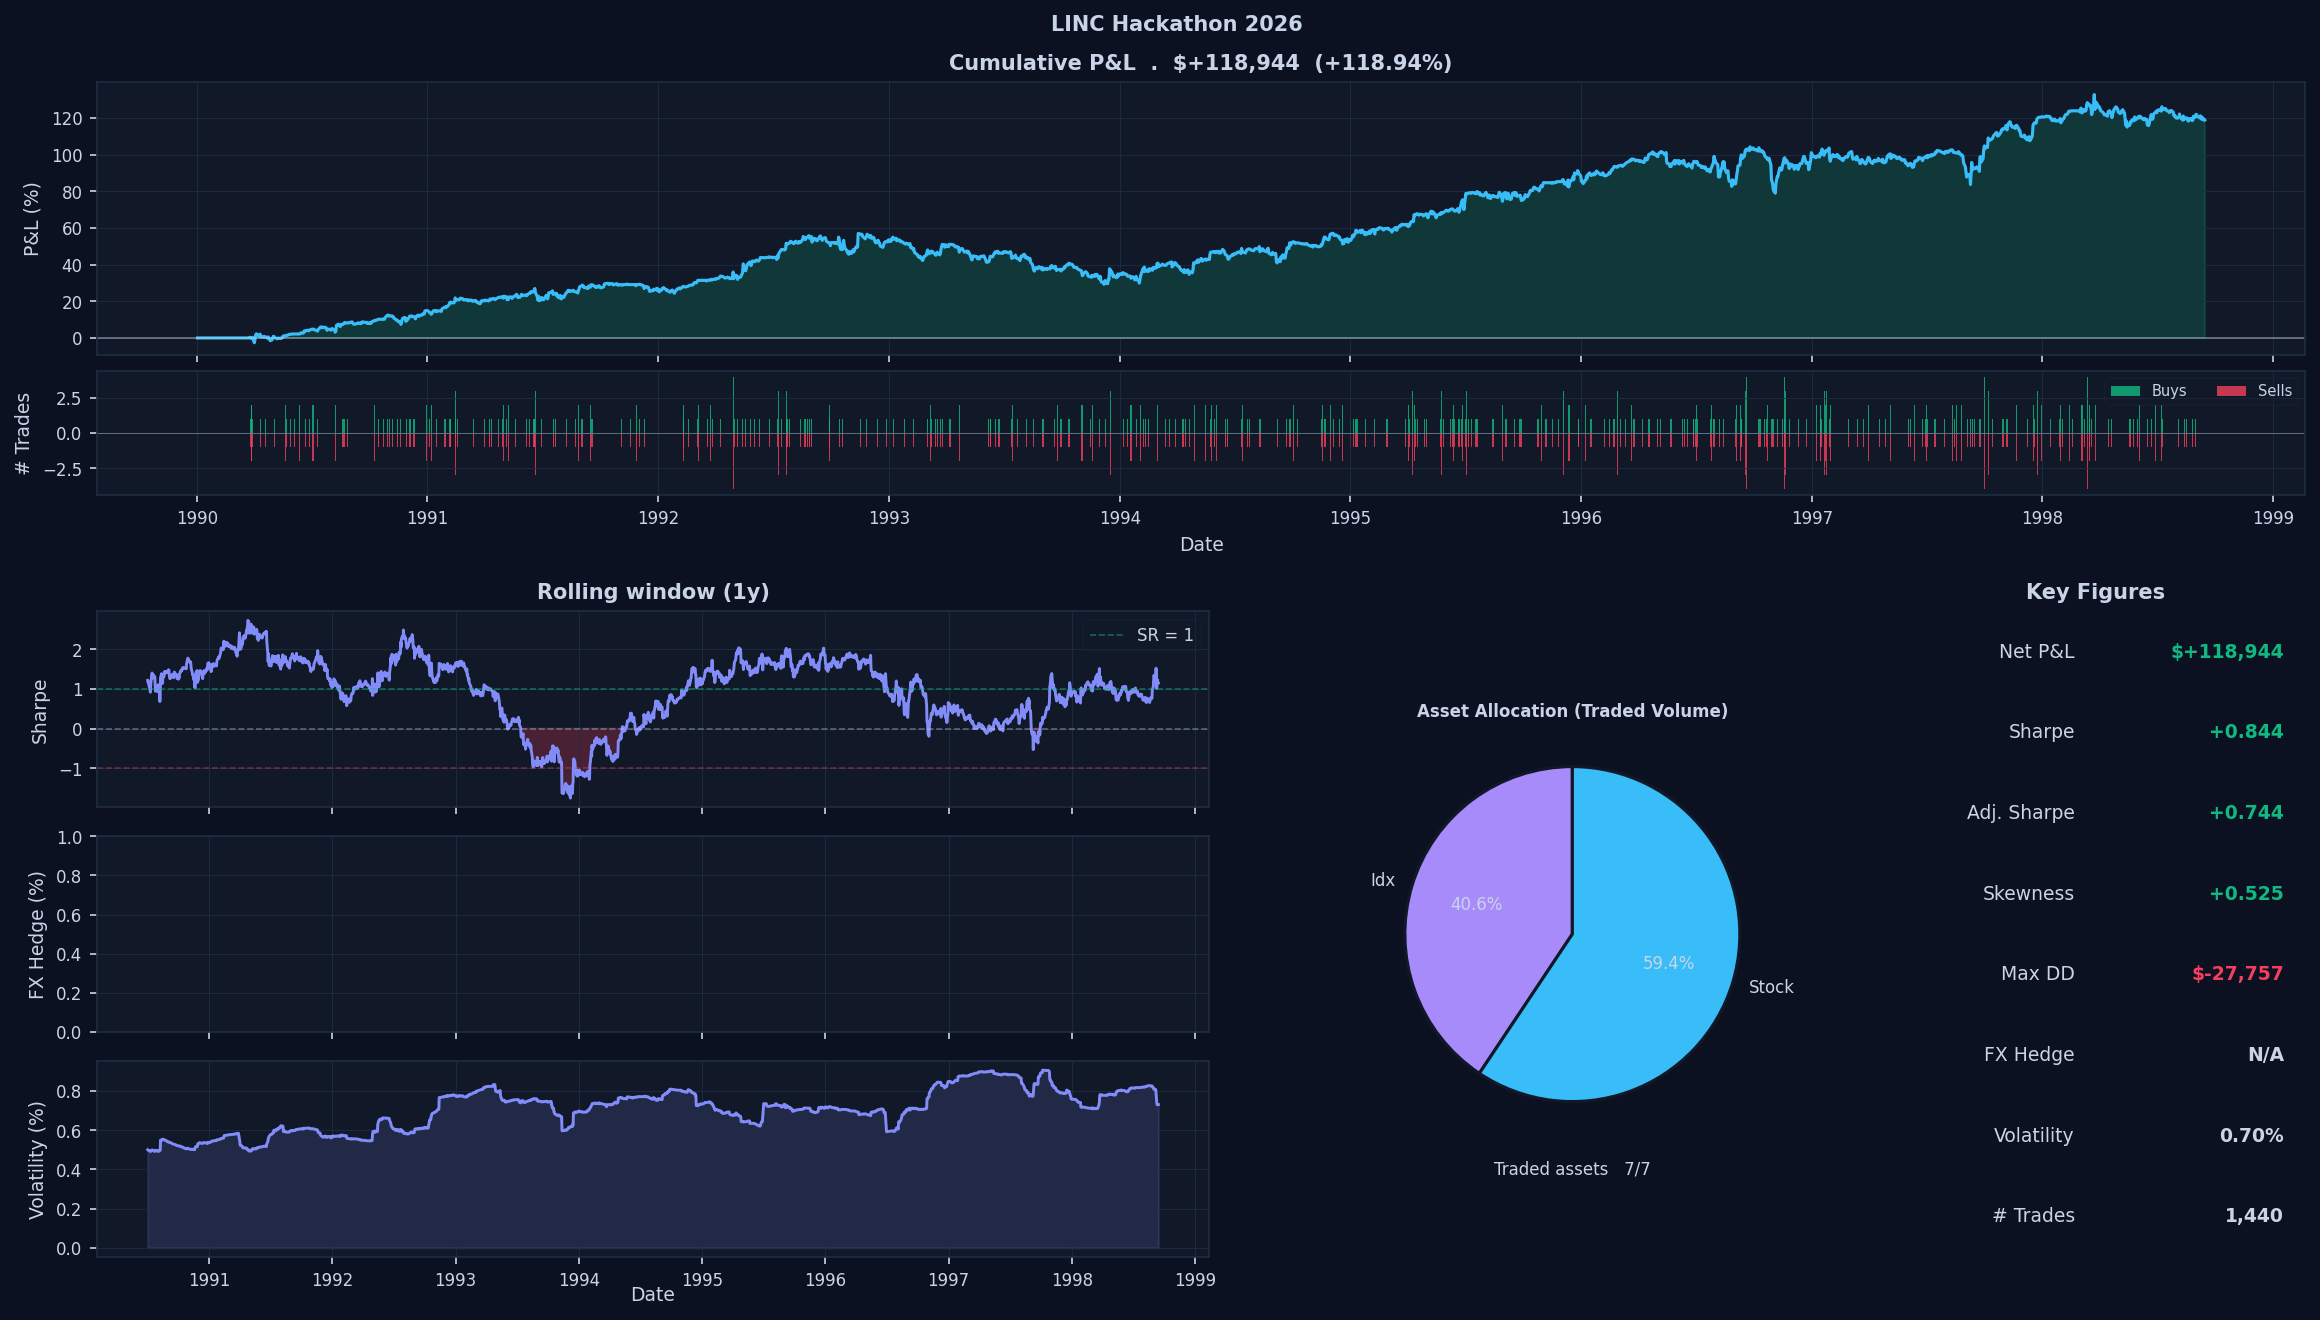
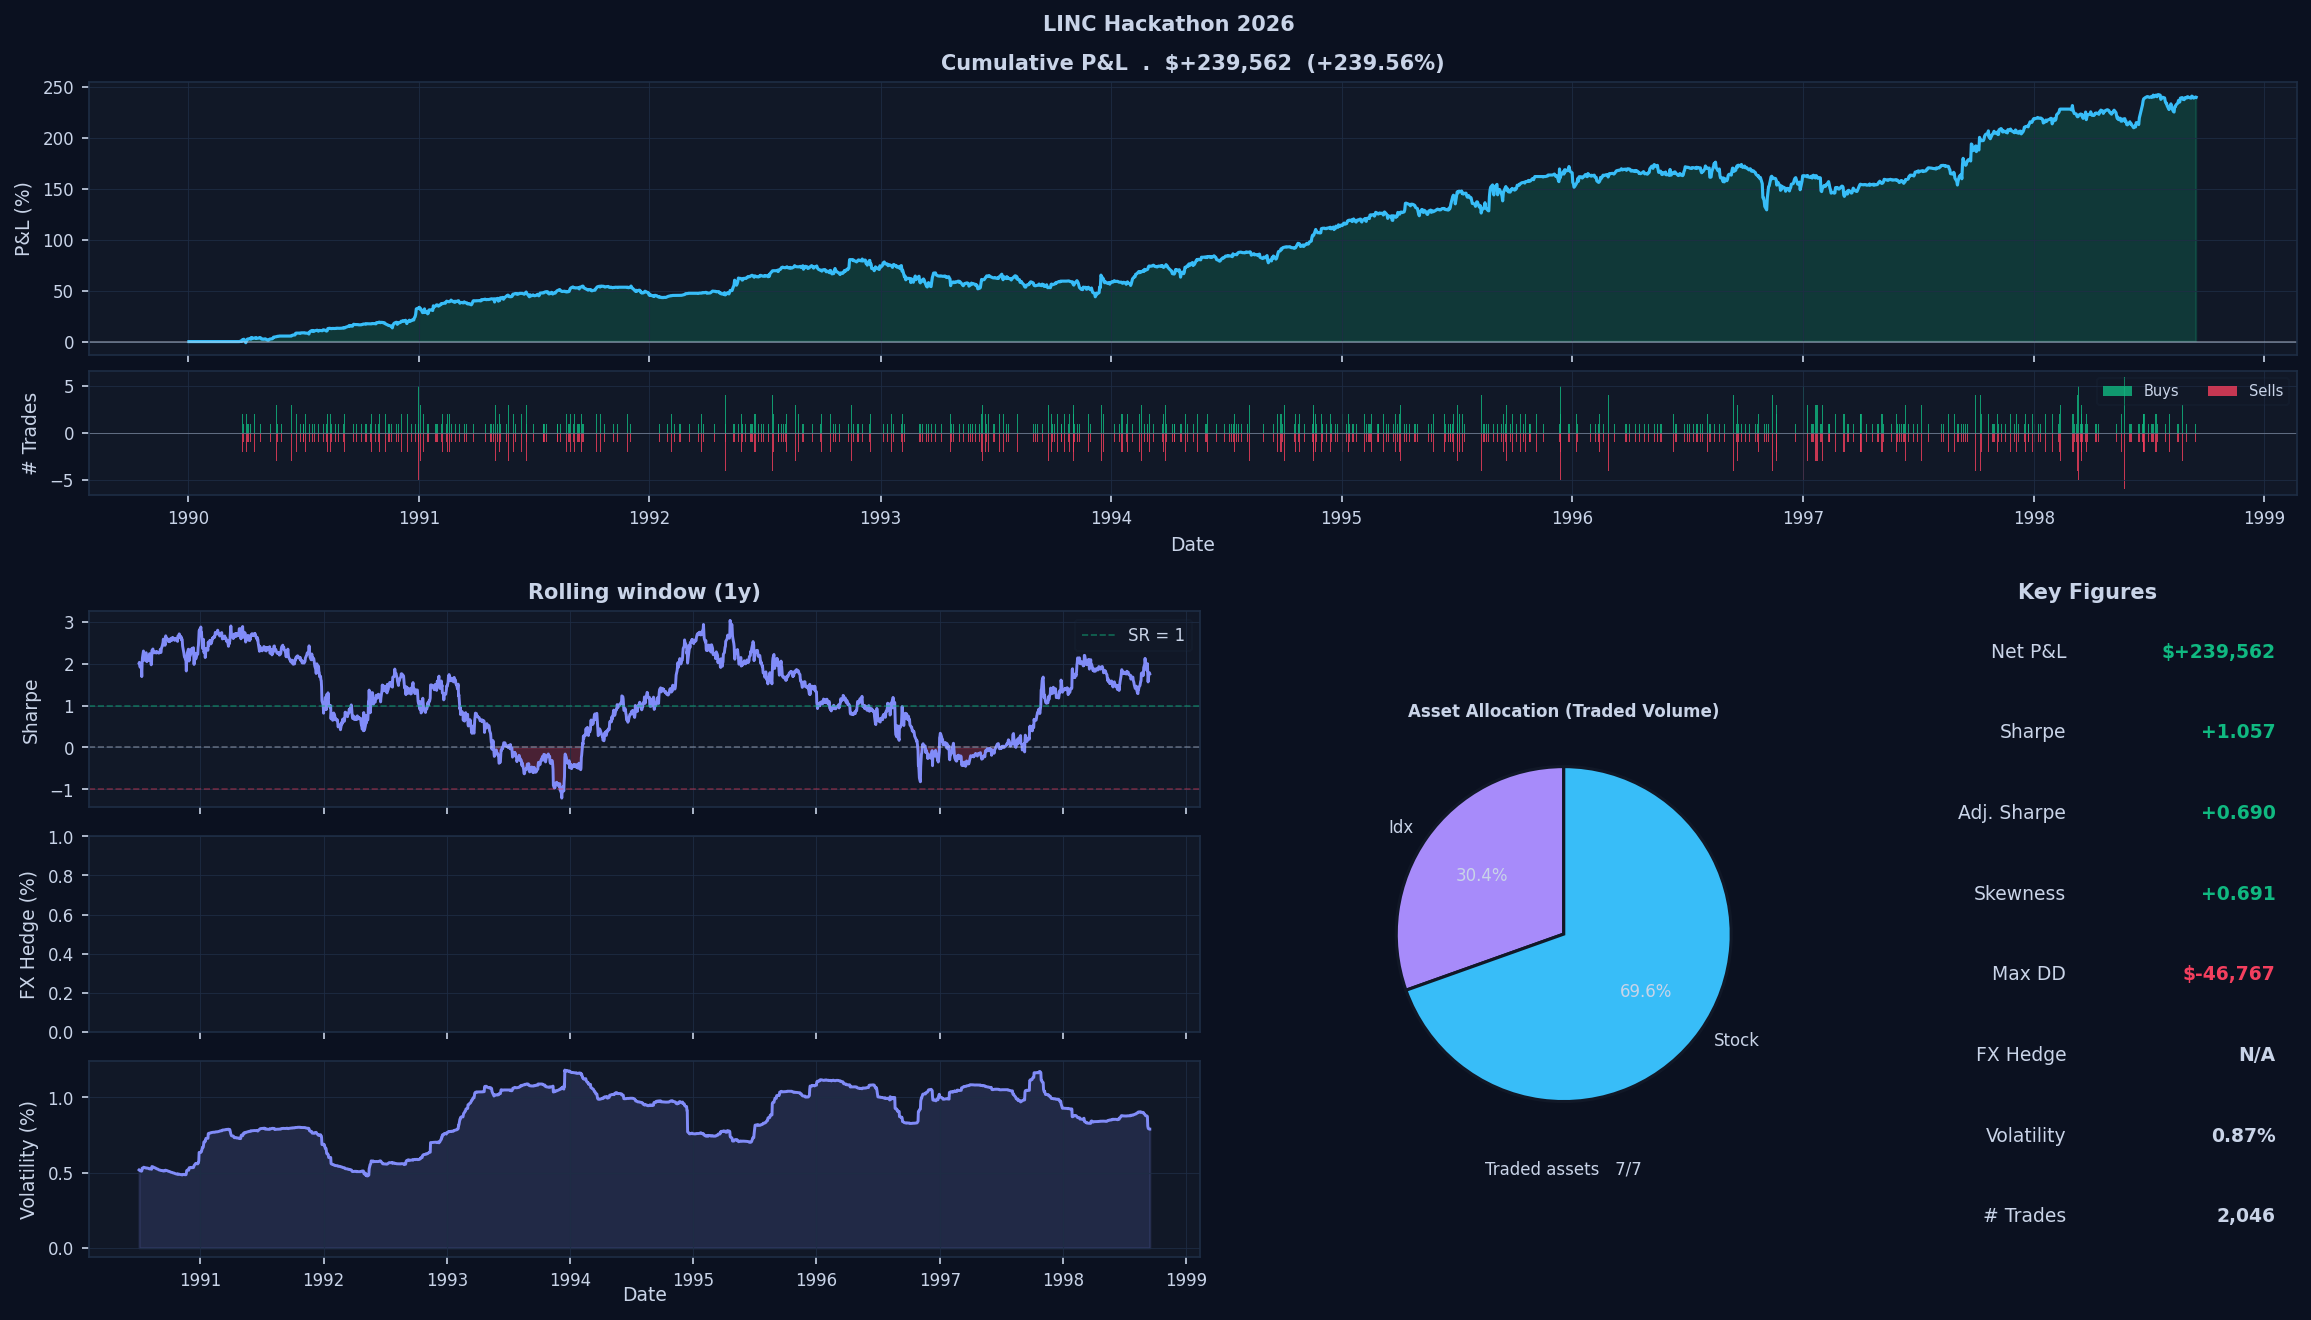
hej

diff --git a/main2.0_algorithm.py b/main2.0_algorithm.py
@@ -63,7 +63,7 @@ def main_algorithm(row_pos, cash, portfolio, signal_prices, data):
     # Vi mäter marknadens totala stress genom snittvolatiliteten för alla assets
     avg_market_vol = np.mean(list(vols_today.values()))
     
-    # Om marknadsvolten är högre än params['base_vol'] (t.ex. 0.01), höjer vi ribban för Z-score
+    # Om marknadsvol är högre än params['base_vol'] (t.ex. 0.01), höjer vi ribban för Z-score
     # Detta stoppar oss från att "jaga brus" under kriser som 1994
     base_vol = params.get('base_vol', 0.01) 
     vol_multiplier = max(1.0, avg_market_vol / base_vol)
@@ -99,10 +99,14 @@ def main_algorithm(row_pos, cash, portfolio, signal_prices, data):
         
         exit_trade = False
 
+        # ===== CORRELATION GUARD (⭐ NYTT BLOCK) =====
+        if rho_today < params['min_active_corr']:
+            exit_trade = True
+
         # ===== **TIME STOP** (NYTT BLOCK) =====
         time_in_trade = data['step_count'] - p_data['entry_step']
 
-        if time_in_trade > params['time_stop']:
+        if time_in_trade > params['time_stop'] and abs(z) > 0.8:
             exit_trade = True
         
         # Om vi köpte a1 och blankade a2 (direction == 1, vi väntade på att Z skulle gå UPP)
@@ -134,10 +138,10 @@ def main_algorithm(row_pos, cash, portfolio, signal_prices, data):
     # ---------------------------------------------------------
     # 4. HITTA OCH ÖPPNA NYA PAIRS
     # ---------------------------------------------------------
-    # Hämta de topp 10 mest korrelerade paren idag
-    top_10 = correlation_sisr.get_top_correlations(current_matrix, all_assets, top_n=16)
+    # Hämta de topp (...) mest korrelerade paren idag
+    top_N = correlation_sisr.get_top_correlations(current_matrix, all_assets, top_n=params['top_N'])
     
-    for item in top_10:
+    for item in top_N:
         rho = item['value']
         
         # Filtrera: Bara handla på urstarka samband
@@ -158,20 +162,29 @@ def main_algorithm(row_pos, cash, portfolio, signal_prices, data):
         
         # Dynamisk "Target Volatility": Vi vill att paret ska svänga max t.ex. 1% per dag
         target_vol = 0.01 
-        risk_scaler = (target_vol / max(vol_today, 0.0001))*1000
-        # Begränsa så vi inte satsar mer än 15% oavsett hur låg vol är
-        position_size = min(0.15, 0.05 * risk_scaler)
-          
+        risk_scaler = (target_vol / max(vol_today, 0.0001))*40
+        # Begränsa så vi inte satsar mer än 17% TOTALT I PARET oavsett hur låg vol är
+        position_size = min(0.20, 0.05 * risk_scaler)
+
+        # **vikta traden mot den asset som har högre volatilitet <-> den vi tror reagerar starkast på divergensbeteendet
+        w_1 = 1 / ( (vols_today[a2]/vols_today[a1])**4 + 1 )
+        w_2 = 1 - w_1
+
+        position_size_1 = w_1 * position_size
+        position_size_2 = w_2 * position_size
         
         z = calculate_zscore(history[a1], history[a2], vol_today)
         
         # Handla endast om spridningen är onormalt stor
         if abs(z) > adaptive_z_entry:
             
-            # Insats: 5% av totala kassan per "ben" i paret
-            notional = cash * position_size
-            q1 = int(notional / signal_prices[a1])
-            q2 = int(notional / signal_prices[a2])
+            # Insats: viktad efter varje tillgångs nuvarande volatilitet
+            notional_1 = cash * position_size_1
+            notional_2 = cash * position_size_2
+
+
+            q1 = int(notional_1 / signal_prices[a1])
+            q2 = int(notional_2 / signal_prices[a2])
             
             if q1 == 0 or q2 == 0:
                 continue
@@ -210,7 +223,7 @@ def run_backtest():
     
     #selected_assets = ['Stock_01', 'Stock_02', 'Stock_03', 'Stock_04' , 'Stock_05' ,'Stock_06', 'Stock_07', 'Stock_08', 'Stock_09', 'Stock_10', 'Stock_11', 'Stock_12', 'Stock_13', 'Stock_14', 'Stock_15', 'Idx_04']
     #selected_assets = ['Comm_01', 'Comm_02', 'Comm_03', 'Comm_04', 'Comm_05', 'Comm_06']
-    selected_assets = ['Idx_02', 'Idx_03', 'Idx_04', 'Stock_02', 'Stock_03', 'Stock_06','Stock_09']
+    selected_assets = ['Idx_02', 'Idx_03', 'Idx_04', 'Stock_02', 'Stock_03', 'Stock_06', 'Stock_09']
 
     prices = prices[selected_assets]
 
@@ -240,13 +253,16 @@ def run_backtest():
         'open_pairs': {}, 
         'params': {
             'window': 60,         # Dagar för rullande medelvärde
-            'corr_thresh': 0.58,  # Lägsta korrelation för att överväga paret
+            'corr_thresh': 0.45,  # Lägsta korrelation för att överväga paret
             'z_entry_lo': 1.4,       # Starta bettet om z > z_entry_lo
             #'z_entry_hi': 3,        # .. och om z < z_entry hi
-            'base_vol': 0.02,       #(Normal dags-volatilitet)
-            'z_exit': 0.25,        # Ta vinst när Z går under [...]
+            'base_vol': 0.03,       #(Normal dags-volatilitet)
+            'z_exit': 0.5,        # Ta vinst när Z går under [...]
             'z_stop': 9,          # Panik-sälj om spridningen fortsätter 
-            'time_stop': 1e8
+            'time_stop': 1e8,
+            'min_active_corr': 0.01,   # ⭐ NYTT (exit om korrelation dör)
+            'top_N':14
+
         }
     }
     
@@ -270,8 +286,15 @@ if __name__ == "__main__":
     run_backtest()
  
 
-    '''plot_pairs_trade('prices.csv', 'pairs_orders.csv', 'Idx_04', 'Stock_02')
-    plot_pairs_trade('prices.csv', 'pairs_orders.csv', 'Idx_04', 'Stock_03')
-    plot_pairs_trade('prices.csv', 'pairs_orders.csv', 'Idx_04', 'Stock_09')
-    plot_pairs_trade('prices.csv', 'pairs_orders.csv', 'Idx_02', 'Idx_03')'''
+    #plot_pairs_trade('prices.csv', 'pairs_orders.csv', 'Idx_04', 'Stock_02')
+    #plot_pairs_trade('prices.csv', 'pairs_orders.csv', 'Idx_04', 'Stock_03')
+    #plot_pairs_trade('prices.csv', 'pairs_orders.csv', 'Idx_04', 'Stock_09')
+    plot_pairs_trade('prices.csv', 'pairs_orders.csv', 'Idx_02', 'Idx_03')
+    #plot_pairs_trade('prices.csv', 'pairs_orders.csv', 'Stock_02', 'Stock_03')
 
+
+
+
+
+#imorrn: kolla om vi kan implementera win/lose ratio och på något sätt se om vi kan bestämma position size utifrån det
+#verkade funka bra att vikta varje ben, kan vi vikta starkare? tex **2
